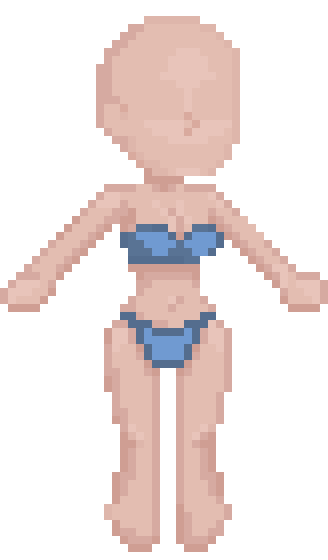
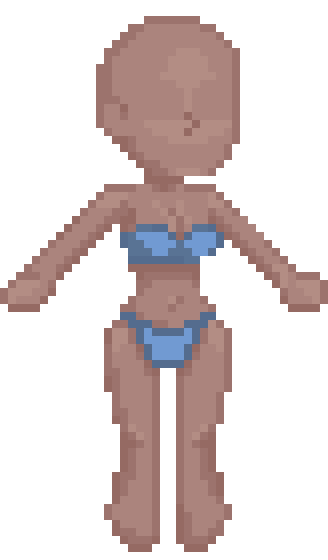
added new dressup assets and fixed layering issues

diff --git a/index.html b/index.html
@@ -234,6 +234,7 @@
                         <button id="base2" data-skin="base2"></button>
                         <button id="base3" data-skin="base3"></button>
                         <button id="base4" data-skin="base4"></button>
+                        <button id="base5" data-skin="base5"></button>
                     </div>
                 </section>
                 <section class="eyes">
@@ -251,6 +252,7 @@
                         <button id="eyes10" data-eyes="eyes10"></button>
                         <button id="eyes11" data-eyes="eyes11"></button>
                         <button id="eyes12" data-eyes="eyes12"></button>
+                        <button id="eyes13" data-eyes="eyes13"></button>
                     </div>
                 </section>
                 <section class="brows">
@@ -289,6 +291,7 @@
                         <button id="hair8" data-hair="hair8"></button>
                         <button id="hair9" data-hair="hair9"></button>
                         <button id="hair10" data-hair="hair10"></button>
+                        <button id="hair11" data-hair="hair11"></button>
                     </div>
                 </section>
                 <section class="hat">
@@ -317,6 +320,7 @@
                         <button id="shortsleeve4" data-shortsleeve="shortsleeve4"></button>
                         <button id="shortsleeve5" data-shortsleeve="shortsleeve5"></button>
                         <button id="shortsleeve6" data-shortsleeve="shortsleeve6"></button>
+                        <button id="shortsleeve7" data-shortsleeve="shortsleeve7"></button>
                     </div>
                 </section>
                 <section class="sleeveless">
@@ -378,6 +382,7 @@
                 <img id="base2-img" src="media/pixel-game-assets/skintones/pixil-layer-base2.png" class="layer">
                 <img id="base3-img" src="media/pixel-game-assets/skintones/pixil-layer-base3.png" class="layer">
                 <img id="base4-img" src="media/pixel-game-assets/skintones/pixil-layer-base4.png" class="layer">
+                <img id="base5-img" src="media/pixel-game-assets/skintones/pixil-layer-base5.png" class="layer">
                 <!-- lips -->
                 <img id="lips1-img" src="media/pixel-game-assets/lips/pixil-layer-lips1.png" class="layer">
                 <img id="lips2-img" src="media/pixel-game-assets/lips/pixil-layer-lips2.png" class="layer">
@@ -399,6 +404,7 @@
                 <img id="eyes10-img" src="media/pixel-game-assets/eyes/pixil-layer-eyes10.png" class="layer">
                 <img id="eyes11-img" src="media/pixel-game-assets/eyes/pixil-layer-eyes11.png" class="layer">
                 <img id="eyes12-img" src="media/pixel-game-assets/eyes/pixil-layer-eyes12.png" class="layer">
+                <img id="eyes13-img" src="media/pixel-game-assets/eyes/pixil-layer-eyes13.png" class="layer">
                 <!-- brows -->
                 <img id="brows1-img" src="media/pixel-game-assets/brows/pixil-layer-brows1.png" class="layer">
                 <img id="brows2-img" src="media/pixel-game-assets/brows/pixil-layer-brows2.png" class="layer">
@@ -417,6 +423,7 @@
                 <img id="hair8-img" src="media/pixel-game-assets/hair/pixil-layer-hair8.png" class="layer">
                 <img id="hair9-img" src="media/pixel-game-assets/hair/pixil-layer-hair9.png" class="layer">
                 <img id="hair10-img" src="media/pixel-game-assets/hair/pixil-layer-hair10.png" class="layer">
+                <img id="hair11-img" src="media/pixel-game-assets/hair/pixil-layer-hair11.png" class="layer">
                 <!-- hat -->
                 <img id="hat1-img" src="media/pixel-game-assets/hats/pixil-layer-hat1.png" class="layer">
                 <img id="hat2-img" src="media/pixel-game-assets/hats/pixil-layer-hat2.png" class="layer">
@@ -433,33 +440,42 @@
                 <img id="shortsleeve4-img" src="media/pixel-game-assets/shortsleeve/pixil-layer-shortsleeve4.png" class="layer">
                 <img id="shortsleeve5-img" src="media/pixel-game-assets/shortsleeve/pixil-layer-shortsleeve5.png" class="layer">
                 <img id="shortsleeve6-img" src="media/pixel-game-assets/shortsleeve/pixil-layer-shortsleeve6.png" class="layer">
+                <img id="shortsleeve7-img" src="media/pixel-game-assets/shortsleeve/pixil-layer-shortsleeve7.png" class="layer">
                 <!-- sleeveless -->
                 <img id="sleeveless1-img" src="media/pixel-game-assets/sleeveless/pixil-layer-sleeveless1.png" class="layer">
                 <img id="sleeveless2-img" src="media/pixel-game-assets/sleeveless/pixil-layer-sleeveless2.png" class="layer">
                 <!-- skirt -->
-                <img id="skirt1-img" src="media/pixel-game-assets/skirts/pixil-layer-skirt1.png" class="layer">
-                <img id="skirt2-img" src="media/pixel-game-assets/skirts/pixil-layer-skirt2.png" class="layer">
-                <img id="skirt3-img" src="media/pixel-game-assets/skirts/pixil-layer-skirt3.png" class="layer">
+                <div class="skirt-options">
+                    <img id="skirt1-img" src="media/pixel-game-assets/skirts/pixil-layer-skirt1.png" class="layer">
+                    <img id="skirt2-img" src="media/pixel-game-assets/skirts/pixil-layer-skirt2.png" class="layer">
+                    <img id="skirt3-img" src="media/pixel-game-assets/skirts/pixil-layer-skirt3.png" class="layer">
+                </div>
                 <!-- shorts -->
-                <img id="shorts1-img" src="media/pixel-game-assets/shorts/pixil-layer-shorts1.png" class="layer">
-                <img id="shorts2-img" src="media/pixel-game-assets/shorts/pixil-layer-shorts2.png" class="layer">
-                <img id="shorts3-img" src="media/pixel-game-assets/shorts/pixil-layer-shorts3.png" class="layer">
+                <div class="shorts-options">
+                    <img id="shorts1-img" src="media/pixel-game-assets/shorts/pixil-layer-shorts1.png" class="layer">
+                    <img id="shorts2-img" src="media/pixel-game-assets/shorts/pixil-layer-shorts2.png" class="layer">
+                    <img id="shorts3-img" src="media/pixel-game-assets/shorts/pixil-layer-shorts3.png" class="layer">
+                </div>
                 <!-- pants -->
-                <img id="pants1-img" src="media/pixel-game-assets/pants/pixil-layer-pants1.png" class="layer">
-                <img id="pants2-img" src="media/pixel-game-assets/pants/pixil-layer-pants2.png" class="layer">
-                <img id="pants3-img" src="media/pixel-game-assets/pants/pixil-layer-pants3.png" class="layer">
-                <img id="pants4-img" src="media/pixel-game-assets/pants/pixil-layer-pants4.png" class="layer">
-                <img id="pants5-img" src="media/pixel-game-assets/pants/pixil-layer-pants5.png" class="layer">
-                <img id="pants6-img" src="media/pixel-game-assets/pants/pixil-layer-pants6.png" class="layer">
+                <div class="pants-options">
+                    <img id="pants1-img" src="media/pixel-game-assets/pants/pixil-layer-pants1.png" class="layer">
+                    <img id="pants2-img" src="media/pixel-game-assets/pants/pixil-layer-pants2.png" class="layer">
+                    <img id="pants3-img" src="media/pixel-game-assets/pants/pixil-layer-pants3.png" class="layer">
+                    <img id="pants4-img" src="media/pixel-game-assets/pants/pixil-layer-pants4.png" class="layer">
+                    <img id="pants5-img" src="media/pixel-game-assets/pants/pixil-layer-pants5.png" class="layer">
+                    <img id="pants6-img" src="media/pixel-game-assets/pants/pixil-layer-pants6.png" class="layer">
+                </div>
                 <!-- socks -->
                 <img id="socks1-img" src="media/pixel-game-assets/undergarments/pixil-layer-socks1.png" class="layer">
                 <img id="socks2-img" src="media/pixel-game-assets/undergarments/pixil-layer-socks2.png" class="layer">
                 <!-- shoes -->
-                <img id="shoes1-img" src="media/pixel-game-assets/shoes/pixil-layer-shoes1.png" class="layer">
-                <img id="shoes2-img" src="media/pixel-game-assets/shoes/pixil-layer-shoes2.png" class="layer">
-                <img id="shoes3-img" src="media/pixel-game-assets/shoes/pixil-layer-shoes3.png" class="layer">
-                <img id="shoes4-img" src="media/pixel-game-assets/shoes/pixil-layer-shoes4.png" class="layer">
-                <img id="shoes5-img" src="media/pixel-game-assets/shoes/pixil-layer-shoes5.png" class="layer">
+                <div class="shoes-options">
+                    <img id="shoes1-img" src="media/pixel-game-assets/shoes/pixil-layer-shoes1.png" class="layer">
+                    <img id="shoes2-img" src="media/pixel-game-assets/shoes/pixil-layer-shoes2.png" class="layer">
+                    <img id="shoes3-img" src="media/pixel-game-assets/shoes/pixil-layer-shoes3.png" class="layer">
+                    <img id="shoes4-img" src="media/pixel-game-assets/shoes/pixil-layer-shoes4.png" class="layer">
+                    <img id="shoes5-img" src="media/pixel-game-assets/shoes/pixil-layer-shoes5.png" class="layer">
+                </div>
             </div>
             <img id="kitty" src="media/pixel-game-assets/pixil-layer-kitty.png">
         </div>

diff --git a/dressup.css b/dressup.css
@@ -111,14 +111,18 @@ button.selected {
     background-color: #4d2f26;
 }
 #base2 {
-    background-color: #ab857d;
+    background-color: #8a4f38;
 }
 #base3 {
-    background-color: #e3bdb1;
+    background-color: #ab857d;
 }
 #base4 {
+    background-color: #e3bdb1;
+}
+#base5 {
     background-color: #f7d2d0;
 }
+
 
 /* eyes */
 #eyes1 {
@@ -156,7 +160,10 @@ button.selected {
 }  
 #eyes12 {
     background-image: url(media/pixel-game-assets/eyes/icons/eyeicon12.png);
-}  
+} 
+#eyes13 {
+    background-image: url(media/pixel-game-assets/eyes/icons/eyeicon13.png);
+} 
 
 /* brows */
 #brows1 {
@@ -235,8 +242,14 @@ button.selected {
 #hair10 {
     background-image: url(media/pixel-game-assets/hair/icons/hairicon10.png);
 }
+#hair11 {
+    background-image: url(media/pixel-game-assets/hair/icons/hairicon11.png);
+}
 
 /* hat */
+#hat3-img {
+    z-index: 5;
+}
 #hat1 {
     background-image: url(media/pixel-game-assets/hats/icons/haticon1.png);
 }
@@ -249,9 +262,7 @@ button.selected {
 #hat4 {
     background-image: url(media/pixel-game-assets/hats/icons/haticon4.png);
 }
-#hat3-img {
-    z-index: 5;
-}
+
 /* longsleeve shirts */
 #longsleeve1 {
     background-image: url(media/pixel-game-assets/longsleeve/icons/longsleeveicon1.png);
@@ -282,6 +293,9 @@ button.selected {
 #shortsleeve6 {
     background-image: url(media/pixel-game-assets/shortsleeve/icons/shortsleeveicon6.png);
 }
+#shortsleeve7 {
+    background-image: url(media/pixel-game-assets/shortsleeve/icons/shortsleeveicon7.png);
+}
 
 /* sleeveless shirts */
 #sleeveless1 {
@@ -292,6 +306,10 @@ button.selected {
 }
 
 /* pants */
+.pants-options img {
+    z-index: 3;
+}
+
 #pants1 {
     background-image: url(media/pixel-game-assets/pants/icons/pantsicon1.png);
 }
@@ -310,16 +328,12 @@ button.selected {
 #pants6 {
     background-image: url(media/pixel-game-assets/pants/icons/pantsicon6.png);
 }
-#pants1-img,
-#pants2-img,
-#pants3-img,
-#pants4-img,
-#pants5-img,
-#pants6-img {
+
+/* shorts shirts */
+.shorts-options img {
     z-index: 3;
 }
 
-/* shorts shirts */
 #shorts1 {
     background-image: url(media/pixel-game-assets/shorts/icons/shortsicon1.png);
 }
@@ -331,6 +345,10 @@ button.selected {
 }
 
 /* skirt */
+.skirt-options img {
+    z-index: 4;
+}
+
 #skirt1 {
     background-image: url(media/pixel-game-assets/skirts/icons/skirticon1.png);
 }
@@ -340,25 +358,24 @@ button.selected {
 #skirt3 {
     background-image: url(media/pixel-game-assets/skirts/icons/skirticon3.png);
 }
-#skirt1-img,
-#skirt2-img,
-#skirt3-img {
-    z-index: 4;
-}
 
 /* socks */
+#socks1-img {
+    z-index: 1;
+}
+
 #socks1 {
     background-image: url(media/pixel-game-assets/undergarments/icons/socksicon1.png);
 }
 #socks2 {
     background-image: url(media/pixel-game-assets/undergarments/icons/socksicon2.png);
 }
-#socks1-img {
-    z-index: 1;
-}
-
 
 /* shoes */
+.shoes-options img {
+    z-index: 2;
+}
+
 #shoes1 {
     background-image: url(media/pixel-game-assets/shoes/icons/shoesicon1.png);
 }
@@ -374,13 +391,4 @@ button.selected {
 #shoes5 {
     background-image: url(media/pixel-game-assets/shoes/icons/shoesicon5.png);
 }
-#shoes1-img,
-#shoes2-img,
-#shoes3-img,
-#shoes4-img,
-#shoes5-img {
-    z-index: 2;
-}
-
-
 
